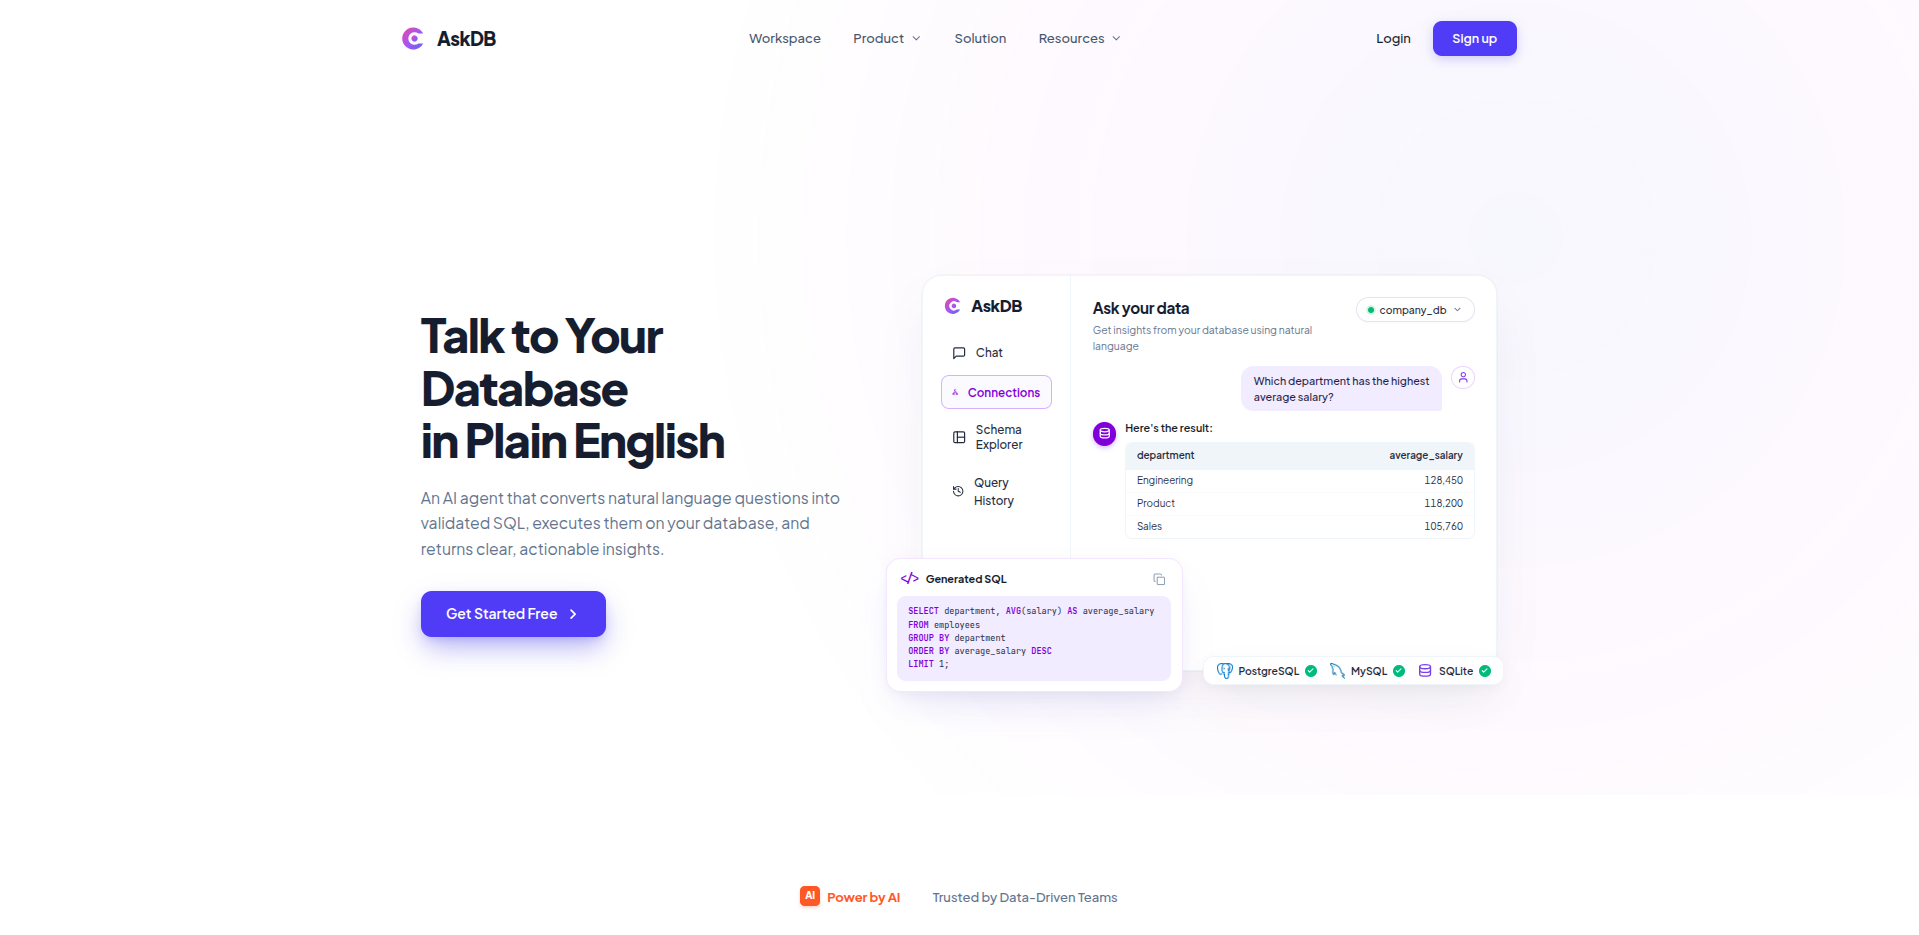
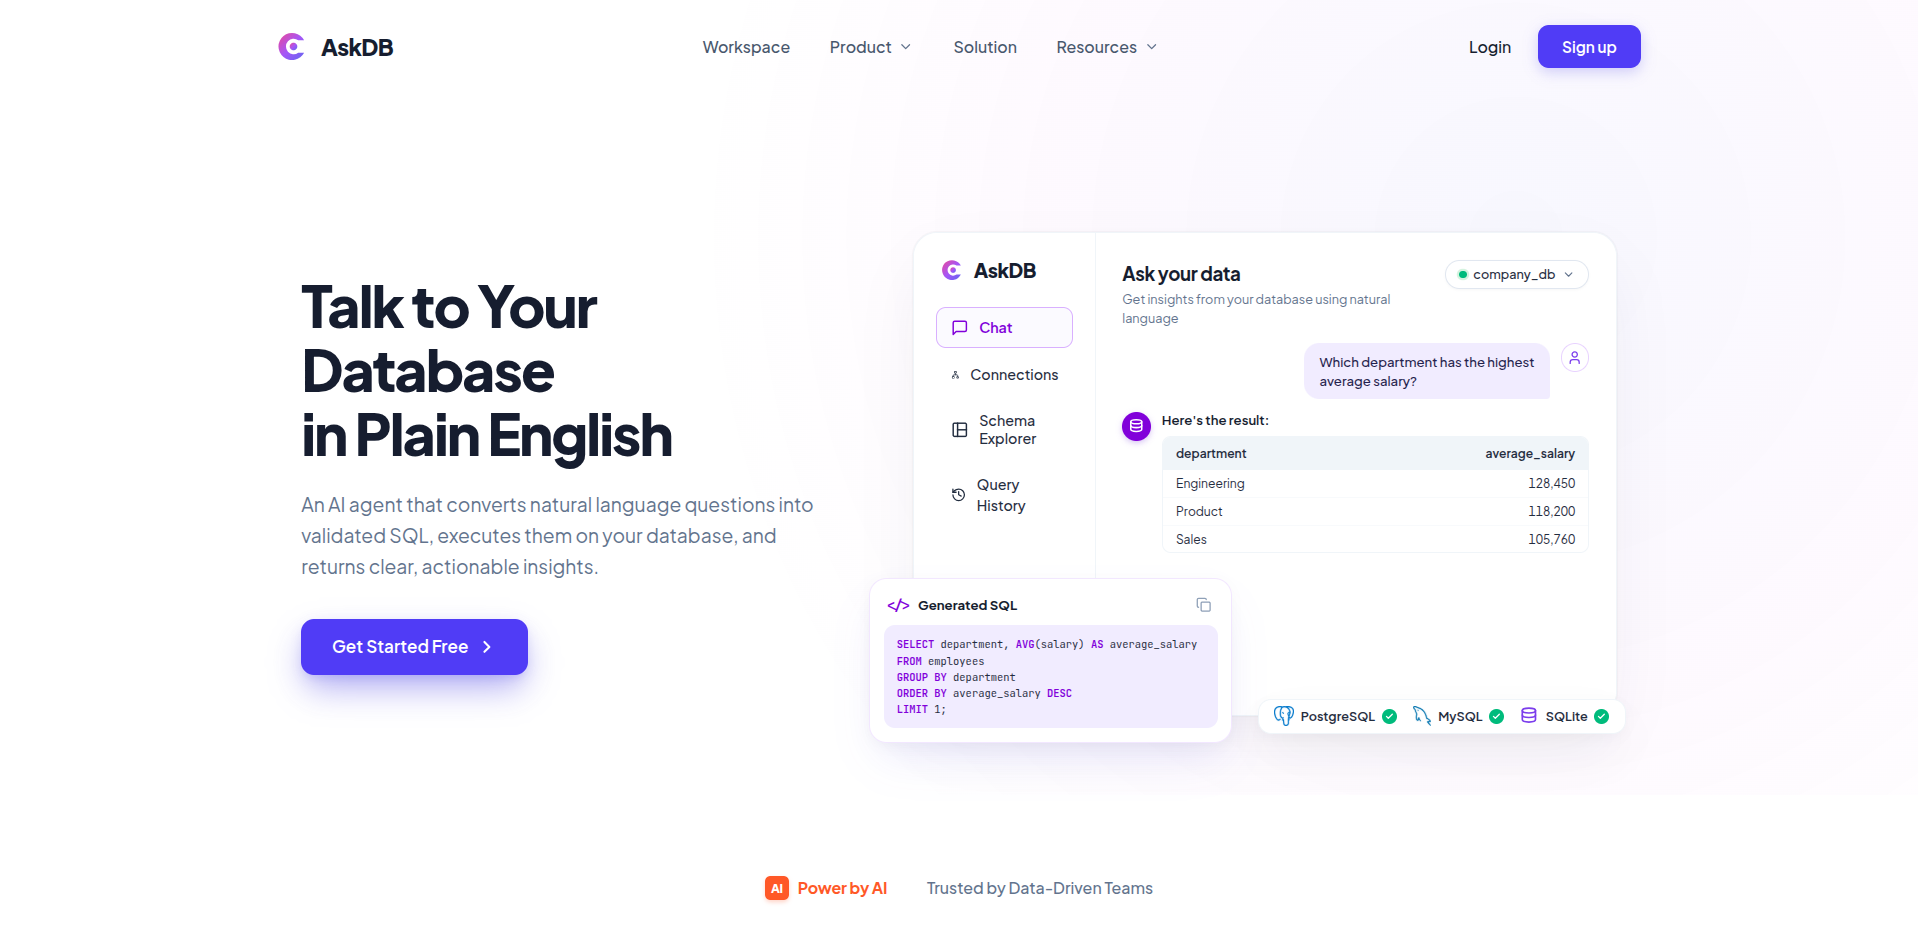
feat: updated certifications section

diff --git a/client/src/data/portfolioData.js b/client/src/data/portfolioData.js
@@ -504,6 +504,19 @@ export const portfolioData = {
         description: 'Awarded by AWS Training & Certification for demonstrating foundational knowledge of AWS Cloud concepts, services, and cloud operations.',
       },
       {
+        id: 'nptel-programming-in-java',
+        fileName: 'nptel-programming-in-java.crt',
+        title: 'Programming in Java',
+        issuer: 'NPTEL (IIT Kharagpur / MoE Govt. of India)',
+        issueDate: 'Jul-Oct 2026',
+        credentialId: 'NPTEL26CS153S1172300959',
+        badge: 'ELITE + TOPPER (TOP 1%)',
+        color: 'emerald',
+        icon: 'code',
+        image: '/images/nptel_java.jpg',
+        description: 'Secured Elite certification with a Top 1% Topper distinction and a perfect consolidated score of 100% (75/75 in proctored exam) out of 42,917 registered candidates.',
+      },
+      {
         id: 'nptel-joy-of-python',
         fileName: 'nptel-joy-of-computing-python.crt',
         title: 'The Joy of Computing using Python',
